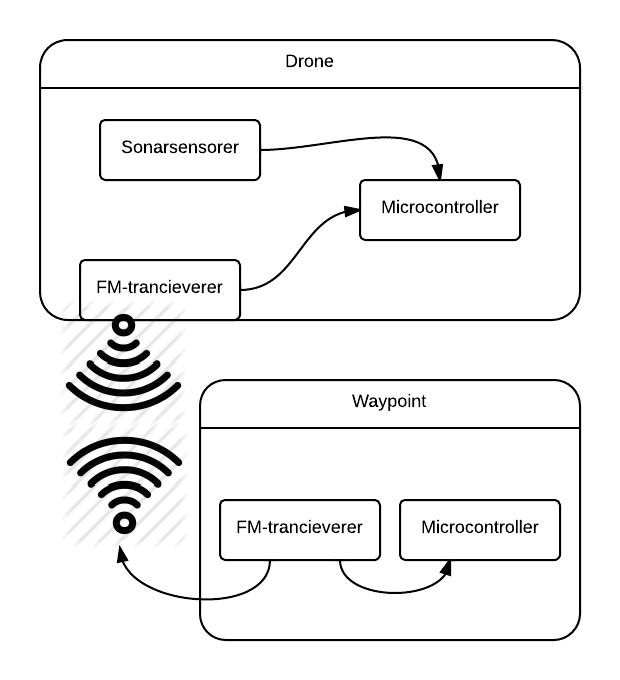
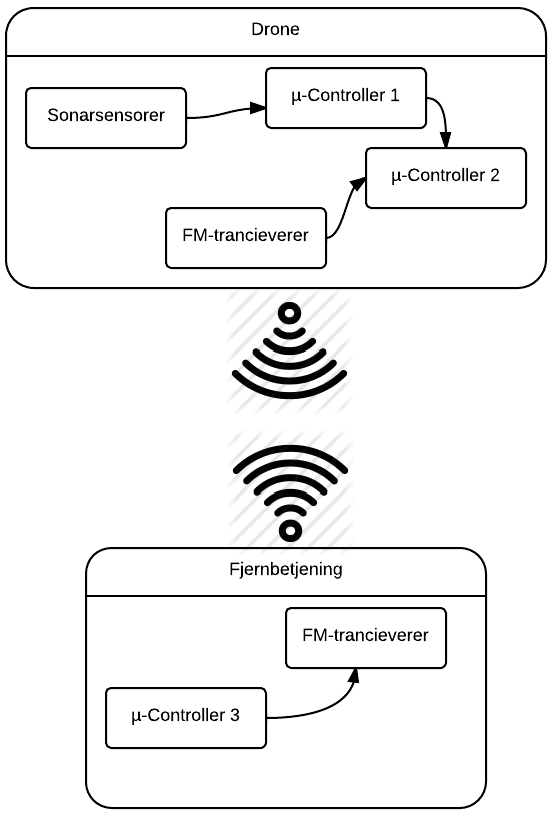
Added design template, updated some figures and updated some text in Kravspecifikation

Changed region(s): [[0.0, 0.0, 1.0, 0.9882], [0.8255, 0.6485, 0.8561, 0.6794]]

diff --git a/Dokumentation/Kravspecifikation/2-GenerelBeskrivelse.tex b/Dokumentation/Kravspecifikation/2-GenerelBeskrivelse.tex
@@ -1,18 +1,14 @@
 \documentclass[Main]{subfiles}
 \begin{document}
 
-\section{General beskrivelse}
+\chapter{Generel beskrivelse}
 Dette afsnit giver et overblik over kravene, der er stillet for udviklingen af systemet.
 
-
-\subsection{Systembeskrivelse}
-Projektet vil bestå i at få en quadrocopter, af typen AeroQuad Cyclone, til autonomt at flyve imellem 3 waypoints, udstyret med en sender og en FM-trasmitter hver.
-Quadrocopteren udstyres med en sender, der kan kobles på de 3 objekter, samt 3 FM-modtagere, der kan triangulere hvor ét af de 3 waypoints står. 
-Quadrocopteren skal således flyve til det aktive waypoint og ved ankomst flyve til det næste objekt.
+\section{Systembeskrivelse}
+Projektet vil bestå i, at få en drone til at udføre nogle specifikke programsekvenser, der styres af en bruger vha. en fjernbetjening.
+Dronen har indbygget en radio, der modtager signalet fra fjernbetjeningen, der derefter eksekverer det ønskede program.
 \\
-For at quadrocopteren ikke støder ind i objekter på sin vej, udstyres den med 3 sonar sendere, der kan detektere forhindringer foran den, samt en sonar under den, således den ikke rammer jorden.
-
-
+Dronen er foruden dette selvstabiliserende og holder sig derfor i luften og har indbygget sensorer på sin front, der sørger for den ikke flyver ind i objekter.
 
 
 \subsection{Systemoversigt}
@@ -24,37 +20,35 @@ For at quadrocopteren ikke støder ind i objekter på sin vej, udstyres den med 
 \label{Fig:Oversigt}
 \end{figure}
 
-På Figur \ref{Fig:Oversigt} ses kommunikationen mellem dronen med et waypoint.
-Dronen bestemmer hvilket way point den vil snakke med og sender et aktiverings-signal til alle way points.
-Hvis et way point bliver forespurgt begynder dette at sende signal retur.
+På Figur \ref{Fig:Oversigt} ses det samlede system med kommunikationen mellem dronen og fjernbetjeningen.
+Fjernbetjeningen modtager et input fra nogle knapper, processerer dette i µ-Controller 3 og gennem radiosenderen overføres programvalget til dronens radiomodtager.
+Herefter bearbejder µ-Controller 2 signalet og klargører dette til µ-Controller 1.
+Når µ-Controller 1 skal bruge input fra fjernbetjeningen aflæses dette, samtidig med input fra sonarsensorerne.
 
 
 
-\subsubsection{Aktør-kontekst diagram}
+\subsection{Aktør-kontekst diagram}
 
 På Figur \ref{Fig:Aktor-oversigt} vises aktørerne der kommunikerer med systemet.
-Figuren indeholder to grupper, henholdsvis personer og hardware aktører.
-Personerne der interagerer med systemet er vist på venstre side, mens de forskellige hardwaren-enheder vises på højre side.
+Figuren indeholder to grupper, henholdsvis brugeren og hardware aktører.
 
 
 \begin{figure}[hbtp]
 \centering
-\includegraphics[scale=0.75]{AktQrDiagram}
+\includegraphics[scale=0.5]{AktQrDiagram}
 \caption{Aktørdiagram}
 \label{Fig:Aktor-oversigt}
 \end{figure}
 
 
-\paragraph{Aktørbeskrivelser}\fxnote{Dette afspejler ikke templaten}\mbox{} \\%Dette skal bruges til line break
-I det følgende beskriver en primær aktør, en aktør der har et eller flere mål, der ønskes opfyldt af systemets Use Cases. 
-En sekundær aktør beskriver derimod en aktør, der er en nødvendig deltager i en eller flere Use Case for at opfylde en primær aktørs mål. 
-I nogle tilfælde kan en  aktør både være primær og sekundær.
+\subsection{Aktørbeskrivelser}
+I det følgende beskrives aktøren, hvis opgave ønskes opfyldt af systemets Use Cases. 
 
 \begin{longtable}{p{0.3\textwidth}|p{0.65\textwidth}}
 \hline
 \textbf{Aktør navn}  				& Bruger \\
 \textbf{Type} 						& Primær \\
-\textbf{Beskrivelse} 				& En "Bruger" er en person, der starter og stopper dronen. \\
+\textbf{Beskrivelse} 				& En bruger er en person, der starter, manøvrerer og stopper dronen. \\
 \textbf{Antal samtidige aktører} 	& 1 \\
 \hline
 \end{longtable}
@@ -68,16 +62,16 @@ I nogle tilfælde kan en  aktør både være primær og sekundær.
 \hline
 \end{longtable}
 
-\newpage
-\subsection{Systemets funktioner}
+
+\section{Systemets funktioner}
 Systemets funktioner, de funktionelle krav, er fundet og beskrevet vha. Use Case teknikken. 
 De følgende diagrammer viser systemets funktioner udtrykt som Use Cases. 
 Formålet med disse diagrammer er at give et overblik over funktionaliteten i det system, der skal udvikles. 
-Hver af de på diagrammerne viste Use Cases er detaljeret specificeret i kapitel \dots %\fxnote{Kapitel 3}.
+Hver af de på diagrammerne viste Use Cases er detaljeret specificeret i kapitel \dots \fxnote{Kapitel 3}.
 
 
 
-\subsubsection{Use Case diagrammer}
+\subsection{Use Case diagrammer}
 Figur \ref{Fig:UC-Diagram} viser systemet som Use Case diagram.
 
 \begin{figure}[hbtp]

diff --git a/Dokumentation/Kravspecifikation/1-Indledning.tex b/Dokumentation/Kravspecifikation/1-Indledning.tex
@@ -5,16 +5,14 @@
 
 \section{Formål}
 
-Denne kravspecifikation specificerer kravene for en autonom drone, til overvågning mellem forskellige way points.
+Dette dokument beskriver kravspecifikationerne, for en lavfrekventstyring af en Aeroquad Cyclone drone.
 \\
 \\
-Dronen er udstyret med tre radiomodtagere, der kan bestemme hvilken retning et way point er placeret i.
-Dronen er ligeledes udstyret med 3 sonarsensorer til at bestemme, om den flyver ind i objekter på sin vej, samt en sonarsensor til at bestemme højden dronen har.
-Dronen aktiveres med en knap placeret på dronen og slukkes på samme knap.
-\\
-\\
-Systemet udvikles til Ingeniørhøjskolen Aarhus Universitet.
-Projektvejleder er Torben Gregersen.
+Systemet består af en Aeroquad Cyclone drone, der styres via radiokommunikation.
+Dronen er udstyret med en lavfrekventradio, som modtager signal fra en fjernbetjening, der vælger forskellige programmer dronen skal flyve efter.
+
+
+\fxnote{Skal afsnittet Referencer være her}
 
 
 \end{document}

diff --git a/Dokumentation/Design/Main.tex b/Dokumentation/Design/Main.tex
@@ -11,7 +11,7 @@
 \usepackage[footnote,final,danish,silent,nomargin]{fixme}
 
 
-\title{Kravspecifikation \\ for \\ Lavfrekvensstyring af Aeroquad}
+\title{Design \\ for \\ Lavfrekvensstyring af Aeroquad}
 \date{18. december, 2013}
 \author{10893, Rasmus Bækgaard\\08830, Rasmus Berg Kloster}
 
@@ -24,11 +24,9 @@
 
 \section*{Versionshistorie}
 \begin{tabular}{l|l|l|l}
-%\hline 
-1.0 & 05/6 -13 & RR & Første version af kravspecifikationen afleveret til Torben \\ 
+1.0 & 18/11 -13 & RAB & Påbegyndt beskrivelse af samtlige relevante funktioner i systemet. \\ 
 \hline 
-2.0 & 18/11 -13 & RR & Projektet omskrives til at passe til projektet \\ 
-%\hline 
+ & & &  \\ 
 \end{tabular} 
 \\
 \\
@@ -64,13 +62,9 @@ Kunde: & Ingeniørhøjskolen i Aarhus \\
 \tableofcontents*
 %\listoffixmes 
 
-\subfile{Forside}
 
-\subfile{1-Indledning}
+\subfile{1-Hardware}
 
-\subfile{2-GenerelBeskrivelse}
-\newpage
-\subfile{3-FunktionelleKrav-UseCases}
-
+\subfile{2-Software}
 
 \end{document}

diff --git a/Dokumentation/Preamble.tex b/Dokumentation/Preamble.tex
@@ -198,3 +198,14 @@
     urlcolor	= blue,		% color of external links
     linkcolor	= black, 	% color of page numbers
 }
+
+
+%Software function evironment:
+\newenvironment{Function}
+{\begin{longtable}{p{0.2\textwidth} p{0.8\textwidth}}}
+{\end{longtable}}
+
+\newcommand{\name}{\textbf{Navn}& }
+\newcommand{\para}{\\ \hline \textbf{Parametre}& }
+\newcommand{\retu}{\\ \textbf{Returværdi}& }
+\newcommand{\comm}{\\ \textbf{Funktionalitet}& }

diff --git a/Dokumentation/Design/2-Software.tex b/Dokumentation/Design/2-Software.tex
@@ -1,0 +1,19 @@
+\documentclass[Main]{subfiles}
+
+
+\begin{document}
+
+\chapter{Software}
+Dette kapitel beskriver softwarens opbygning efter 4+1 modellen. \fxnote{Reference til GOF}
+
+\section{Klassebeskrivelser}
+
+
+\begin{Function}
+\name{•}
+\para{•}
+\retu{•}
+\comm{•}
+\end{Function}
+
+\end{document}

diff --git a/Kode/Drone/AltitudeControlProcessor.h b/Kode/Drone/AltitudeControlProcessor.h
@@ -10,7 +10,6 @@
 #include "FlightCommandProcessor.h"
 #include "FlightControlVariable.h"
 #include "PID.h"
-#include "Programs.h"
 #include "RangeFinder.h"
 
 #if defined AltitudeHoldBaro || defined AltitudeHoldRangeFinder

diff --git a/Dokumentation/Design/1-Hardware.tex b/Dokumentation/Design/1-Hardware.tex
@@ -1,0 +1,4 @@
+\documentclass[Main]{subfiles}
+\begin{document}
+
+\end{document}
